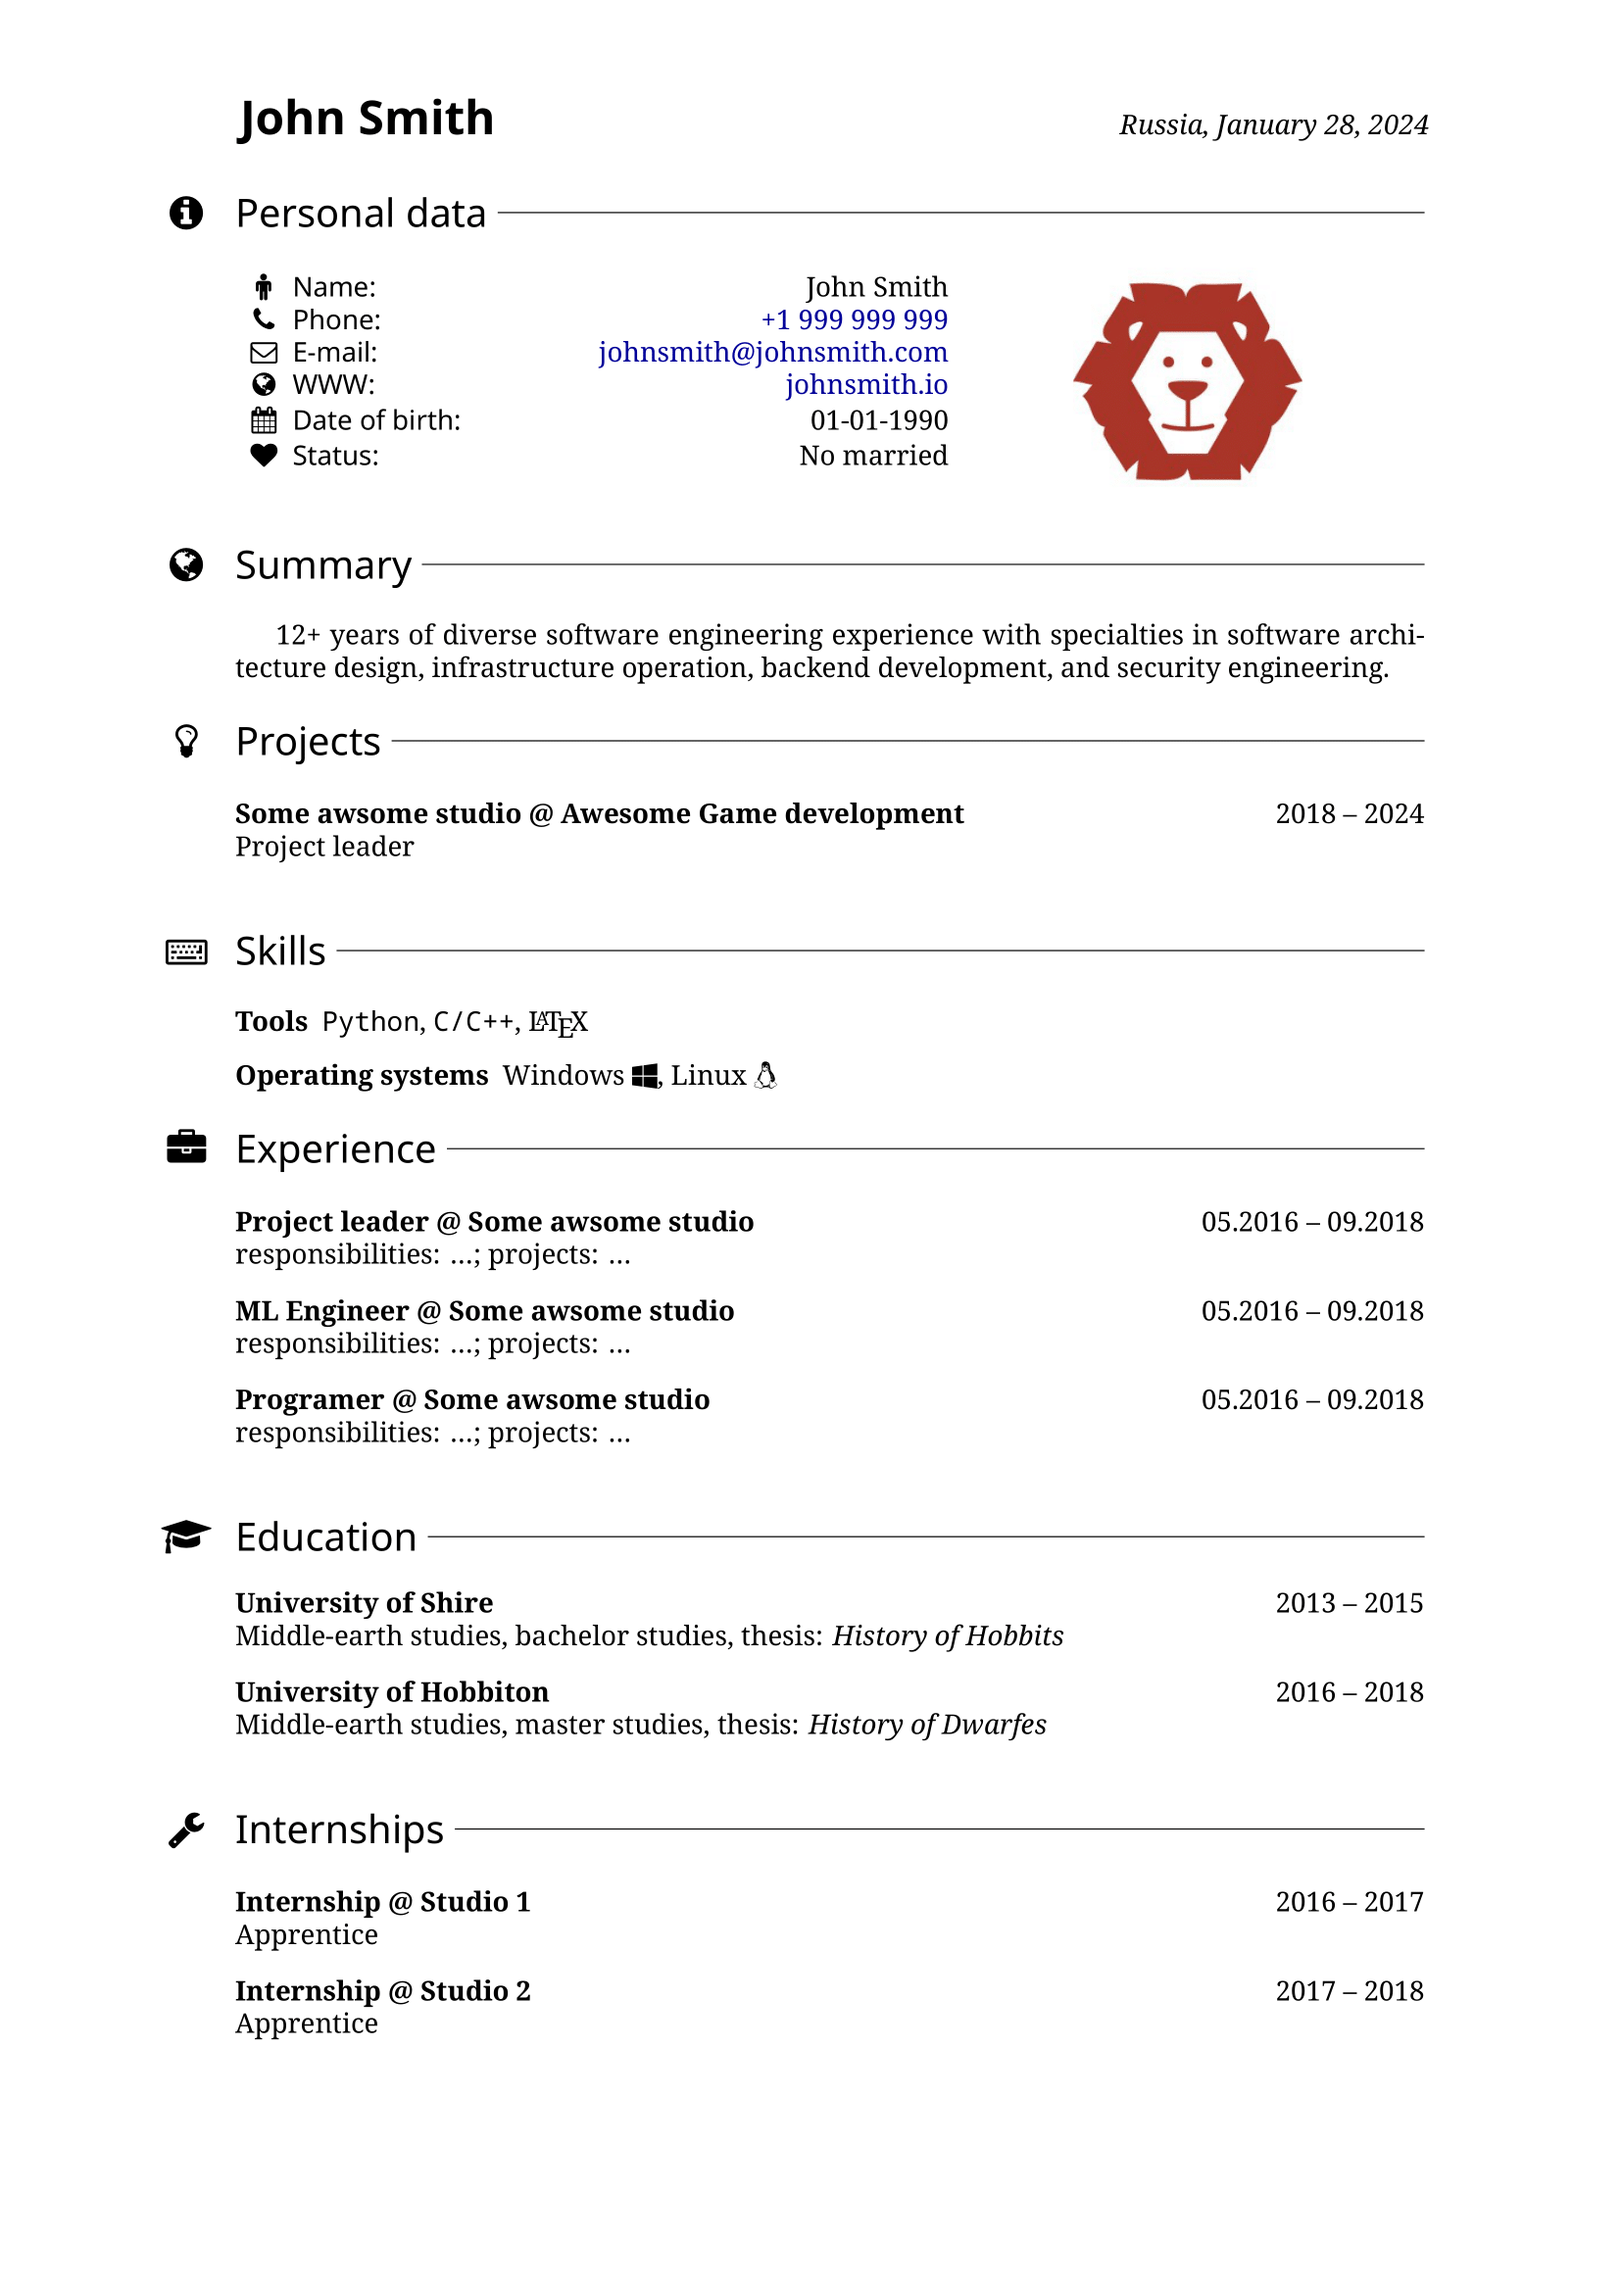
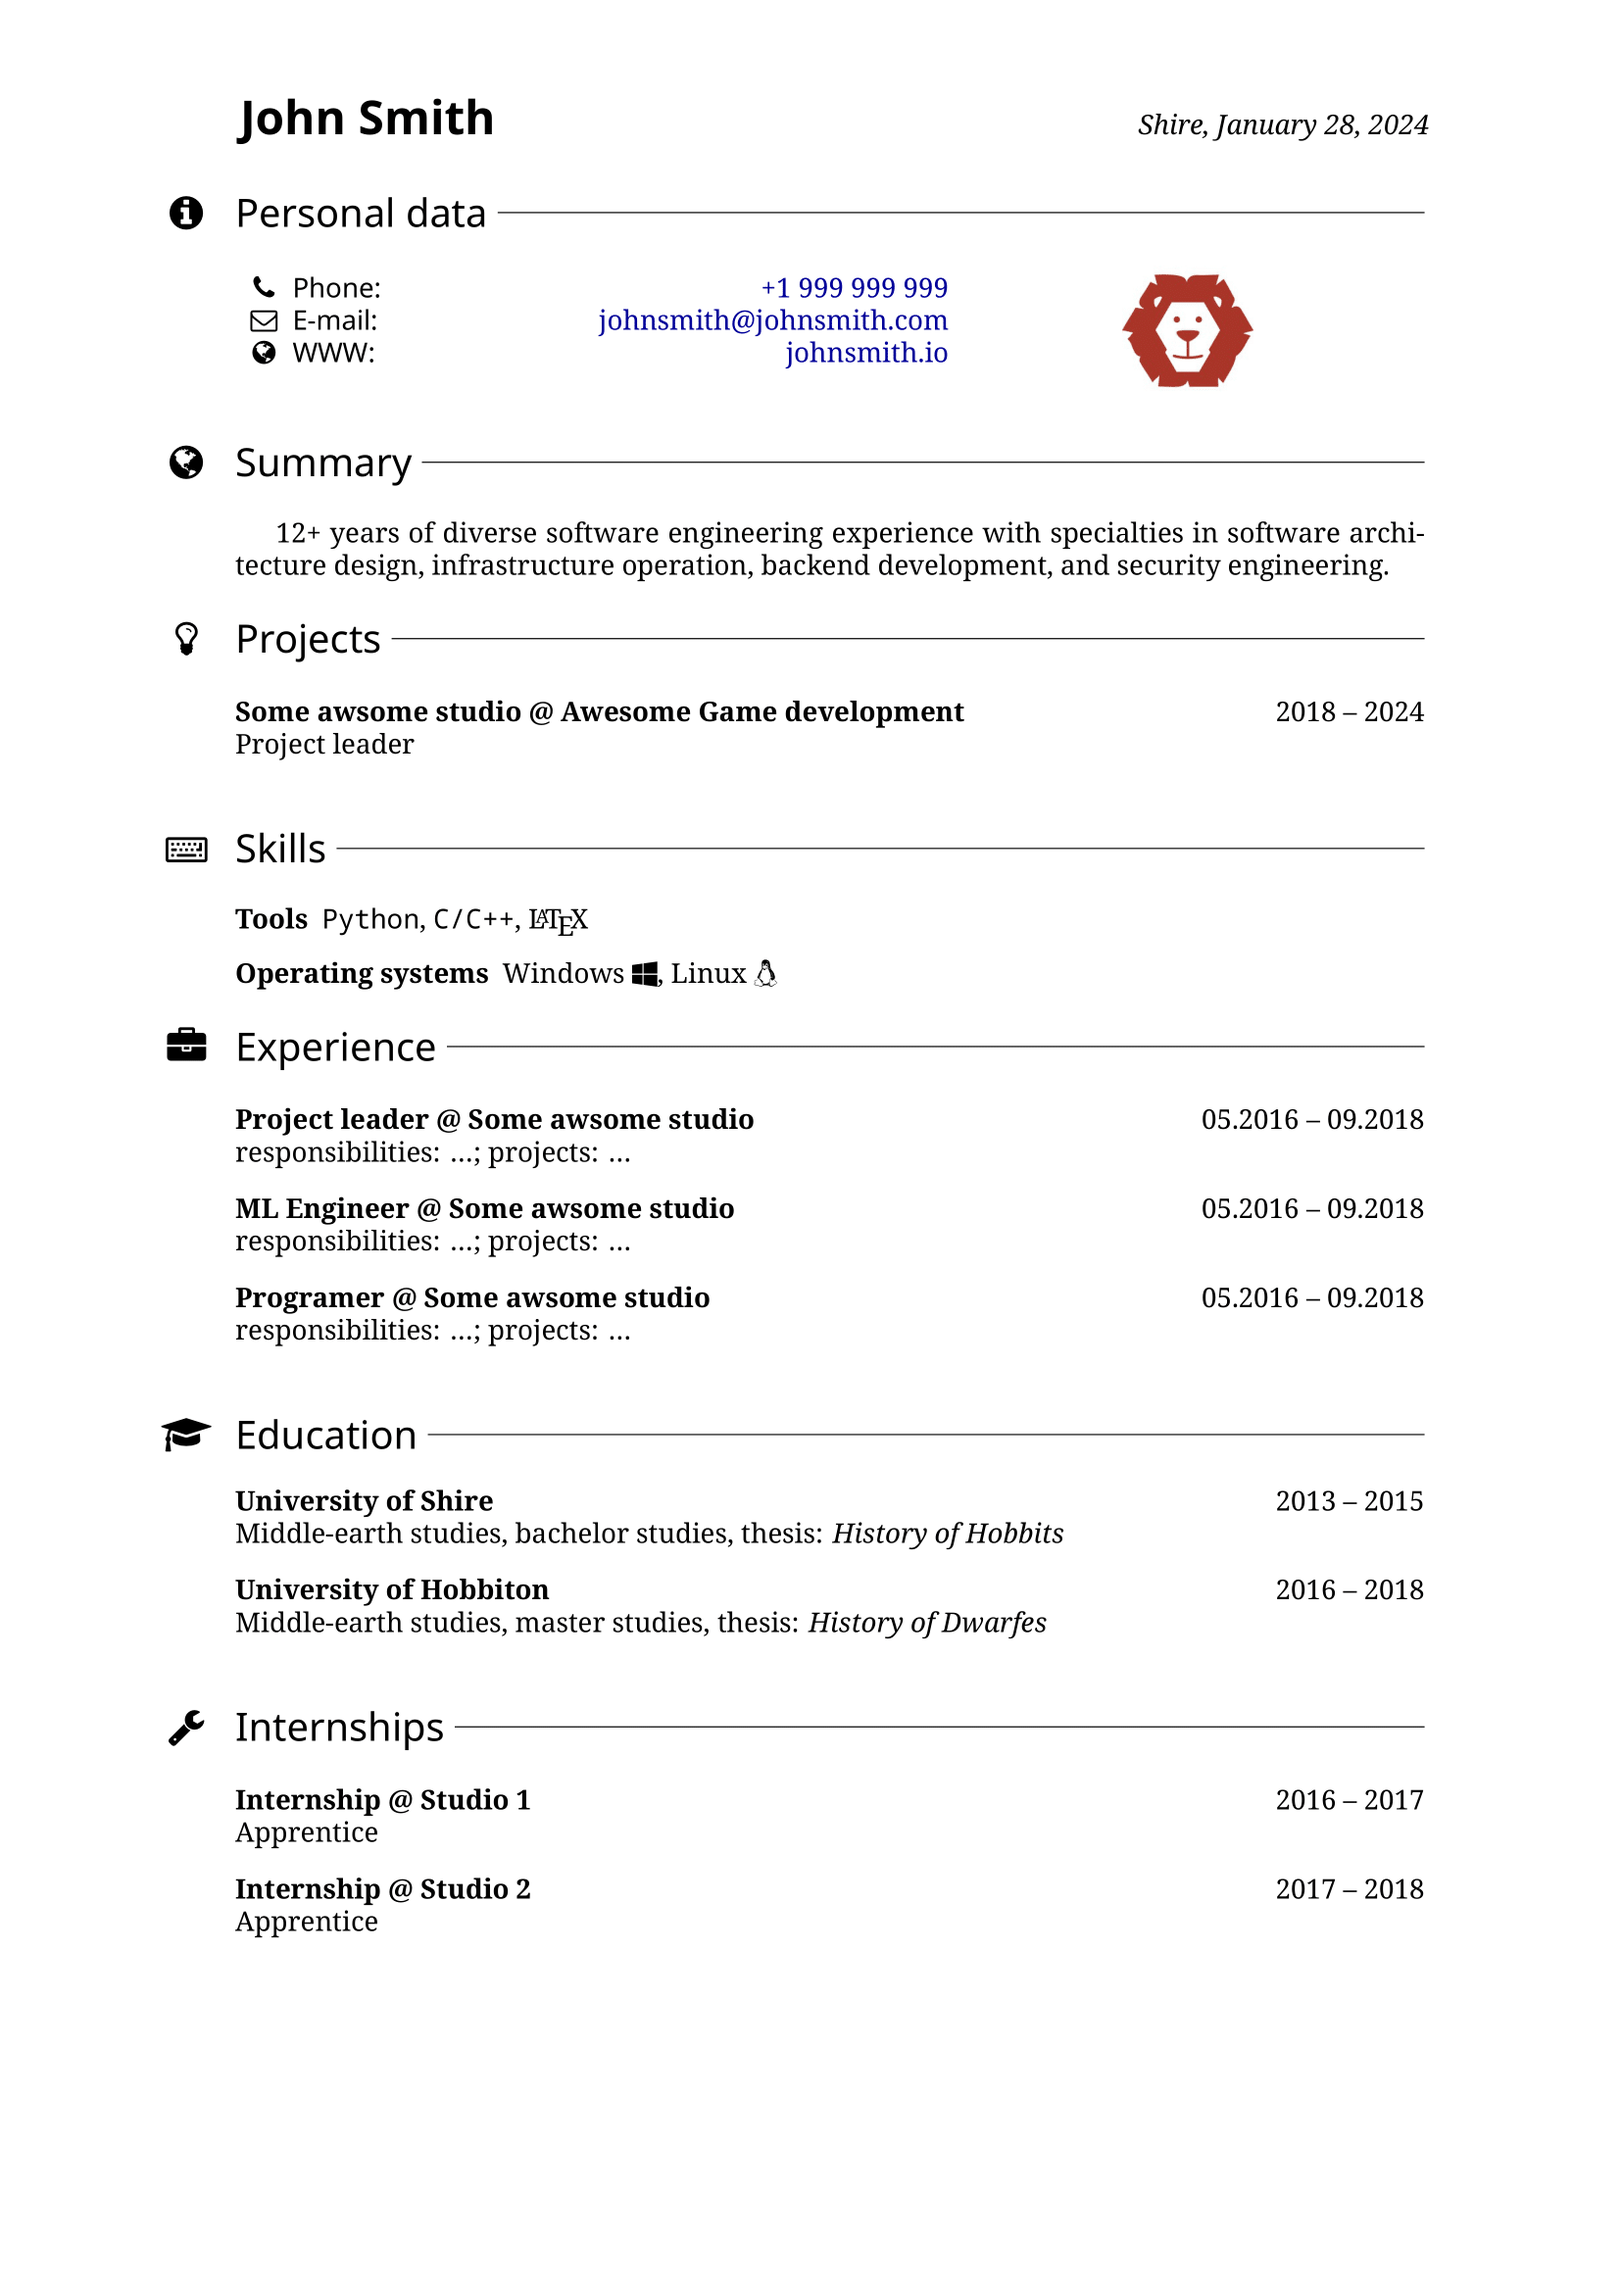
docs: Update image

diff --git a/Matter/contact.tex b/Matter/contact.tex
@@ -1,12 +1,12 @@
-%\title{CV}
-\place{\RUS{США}\ENG{USA}}{}
+% \title{CV}
+\place{\RUS{Шир}\ENG{Shire}}{}
 \date{\today}
 % \author{\RUS{Джон Смит}\ENG{John Smith}}
 \phone{+1 999 999 999}
 \email{johnsmith@johnsmith.com}
 % \dateofbirth{01-01-1990}
-%\placeofbirth{Hobbiton}
-%\address{\RUS{ул. Ленина 1}\ENG{Lenin Street 1}}
+% \placeofbirth{Hobbiton}
+% \address{\RUS{ул. Ленина 1}\ENG{Lenin Street 1}}
 \www{johnsmith.io}
 % \status{\RUS{Холост}\ENG{No married}}
 \image{lion-logo.jpg}
